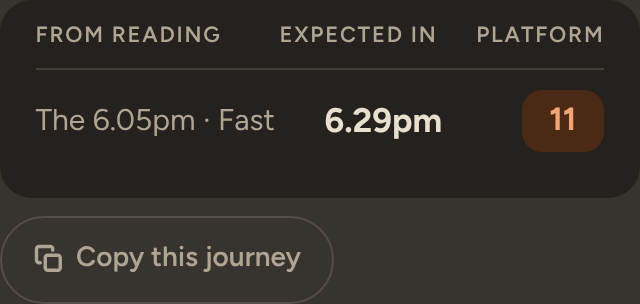
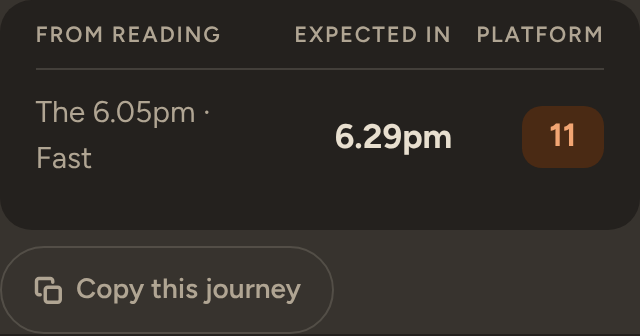
Message home box: Expected in and the time right-aligned (one grid)
Claude-Session: https://claude.ai/code/session_01BsvHLJXmw3oprEBv3k7dfG

diff --git a/src/styles/global.css b/src/styles/global.css
@@ -332,10 +332,12 @@ details.trains-fold { margin-top: var(--space-3); }
 .home .home-box { padding: var(--space-2) var(--space-4) var(--space-3); border-radius: var(--radius-md); background: var(--color-bg); }
 .home .home-box .board { margin-top: 0; }
 /* Message home's box: the train first, then when it's expected in (John, November 26th 2026). */
-.home .home-box .bhead, .home .home-box .brow { grid-template-columns: 1fr 5.4rem auto; }
-.home .home-box .bhead > span:nth-child(2) { white-space: nowrap; }
+/* One grid for the heading and the row, so "Expected in" and the time line up on their right. */
+.home .home-box .board { display: grid; grid-template-columns: minmax(0, 1fr) auto auto; column-gap: 12px; }
+.home .home-box .bhead, .home .home-box .brow { grid-column: 1 / -1; grid-template-columns: subgrid; }
+.home .home-box .bhead > span:nth-child(2), .home .home-box .brow > .bt { white-space: nowrap; justify-self: end; }
+.home .home-box .brow > .badge, .home .home-box .brow > .bnoplat { justify-self: end; }
 .blate .barrow.after svg { margin-right: 0; margin-left: 0.3em; }
-.home .home-box .blate.nw { white-space: nowrap; }
 @media (max-width: 720px) { .connect .cpick { grid-template-columns: 1fr; } .connect .cpick > .btn { margin-top: 0; } }
 
 /* Directions to a platform: tap a badge (John, November 24th 2026, option A). */

diff --git a/src/components/MessageHome.tsx b/src/components/MessageHome.tsx
@@ -43,7 +43,7 @@ export function MessageHome({ a }: { a: Analysis }) {
           <div className="brow" role="row">
             <span className="bmid" role="cell">
               <span>{r.mid}</span>
-              {r.late && <span className={r.arrow ? 'blate own nw' : 'blate own'}>{r.late}{r.arrow && <span className="barrow after"><Icon name="right" /></span>}</span>}
+              {r.late && <span className="blate own">{r.arrow ? <>{r.late.replace(/\s+\S+$/, ' ')}<span className="nw">{r.late.match(/\S+$/)![0]}<span className="barrow after"><Icon name="right" /></span></span></> : r.late}</span>}
             </span>
             <span className={r.time === '?' ? 'bt q' : 'bt'} role="cell">{r.time}</span>
             {r.platform && <span className="badge" role="cell">{r.platform}</span>}

diff --git a/CLAUDE.md b/CLAUDE.md
@@ -117,6 +117,12 @@ given its own branch). Before committing there, run
   then "PLATFORM". Its own markup in `MessageHome.tsx` (the shared `Board` unchanged elsewhere); `Icon` "right";
   `.home .home-box` columns in `global.css`. Checks, `tsc -b`, lint, build; `message-home/shoot.mjs` at 390px dark and
   1200px light: the arrow on the line with its words, no errors, no sideways scroll.
+- **John:** "6.43pm" and "Expected in" right-aligned with each other. The heading and row now share one grid
+  (`subgrid` in `global.css`), as two separate grids sized their columns differently and the row ran about 40px past
+  the box on a phone; the late note may wrap, the arrow kept with its last word. Measured at 360px and 390px with
+  touch and 1200px: heading and time end on the same pixel, platform heading and badge too, no sideways scroll.
+  John's share-message cases (left on time but late; left late; left late and made some up) drafted with the others,
+  for him: not built.
 
 ### November 26th 2026: "Find my train from my location", fuller lists, "expected", a refresh that keeps your place; live (branch `claude/happy-darwin-mmnd4m`, merged the same day; Claude Code)
 
